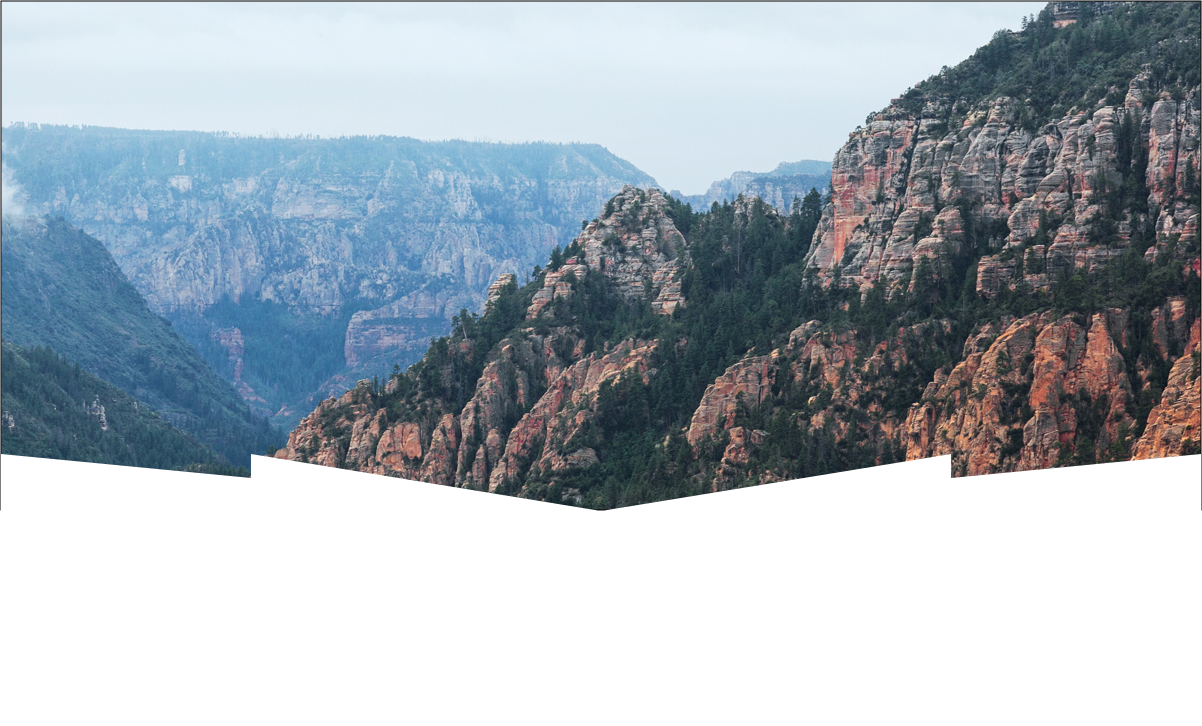
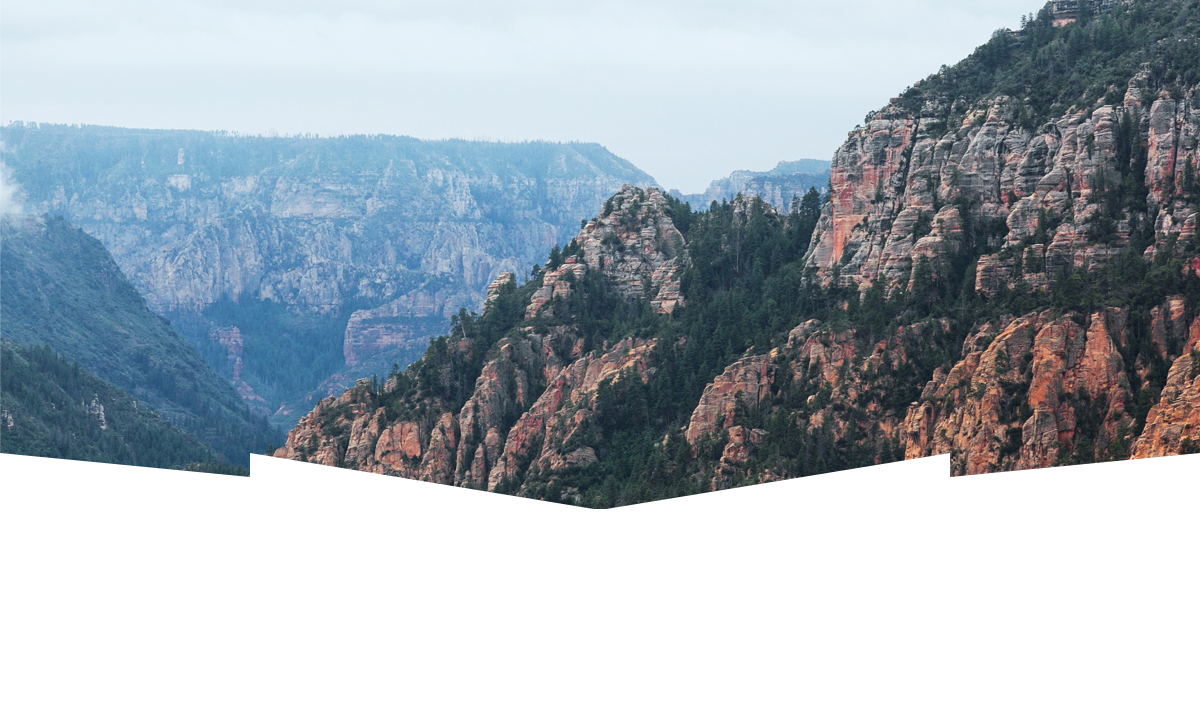
доделывание main

diff --git a/index.html b/index.html
@@ -73,25 +73,21 @@
               <p>Да, по нему можно пройти! Если конечно вы осмелитесь</p>
             </div>
           </li>
-          <li class="reasons__list-item ">
-            <div class="reasons__list-background--grey">
+          <li class="reasons__list-item reasons__list-background--grey">
+            <div class="reasons__list-item--div">
               <h3>Небольшая площадь</h3>
               <span>-№3-</span>
-              <p>все достопримечательности находятся очень близко</p>
+              <p>все достопримечательности<br> находятся очень близко</p>
             </div>
-          </li>
-          <li class="reasons__list-item">
-            <div class="reasons__list-background--grey">
+            <div class="reasons__list-item--div">
               <h3>Красивая дорога</h3>
               <span>-№4-</span>
-              <p>ехать в седону из лас-вегаса совсем не скучно!</p>
+              <p>ехать в седону из лас-вегаса совсем<br> не скучно!</p>
             </div>
-          </li>
-          <li class="reasons__list-item">
-            <div class="reasons__list-background--grey">
+            <div class="reasons__list-item--div">
               <h3>Мало туристов</h3>
               <span>-№5-</span>
-              <p>большинство едет в гранд каньон и толпится там</p>
+              <p>большинство едет в гранд каньон<br> и толпится там</p>
             </div>
           </li>
         </ul>
@@ -103,36 +99,53 @@
           и мы покажем вам лучшие предложения гостиниц в СЕДОНЕ
         </p>
         <button type="button" class="form__button-search">Поиск гостиницы в Седоне</button>
-        <form action="https://echo.htmlacademy.ru/courses" method="post">
+        <form action="https://echo.htmlacademy.ru/courses" method="post" class="form__searching">
           <fieldset class="form__fieldset">
-            <label for="sing_in_id" class="form__text">Дата заезда</label>
+            <div class="input__check">
+            <label for="sing_in_id" class="form__text">Дата заезда</label>          
+            <div class="input__sing-in">
             <input type="text" name="sing_in_date" id="sing_in_id" placeholder="24 Апреля 2017"
               class="form__sing-in-date">
-            <label for="sing_out_id" class="form__text">Дата выезда</label>
+              <button type="button" class="form__calendar"></button>
+            </div>
+          </div>
+            <div class="input__departure">
+            <label for="sing_out_id" class="form__text">Дата выезда</label>          
+            <div class="input__sing-in">
             <input type="text" name="sing_out_date" id="sing_out_id" placeholder="4 Июля 2017"
-              class="form__sing-out-date">
-            <label for="old_people_id" class="form__text">Взрослые</label>
-            <button type="button" class="form__button-less">-</button> <input type="text" name="old_people"
-              id="old_people_id" value="2" class="form__input-adult"> <button type="button"
-              class="form__button-more">+</button>
-            <!--Тут просто кнопки плюс и минус-->
+              class="form__sing-out-date">   
+              <button type="button" class="form__calendar"></button> 
+            </div>
+          </div>  
+          <div class="input__elders-juniors">
+          <div class="input__elders">    
+            <label for="old_people_id" class="form__text">Взрослые</label> 
+            <div class="input__adult">          
+            <input type="button" value="-" class="form__button-less"> <input type="text" name="old_people"
+              id="old_people_id" value="2" class="form__input-adult"> <input type="button" value="+" class="form__button-more">
+            </div>
+          </div>  
+          <div class="input__juniors">
             <label for="children_people_id" class="form__text">Дети</label>
-            <button type="button" class="form__button-less">-</button> <input type="text" name="children_people"
+            <div class="input__children">
+            <input type="button" value="-" class="form__button-less"><input type="text" name="children_people"
               id="children_people_id" value="0" class="form__input-children">
-            <button type="button" class="form__button-more">+</button>
-            <!--Тут просто кнопки плюс и минус-->
+            <input type="button" value="+" class="form__button-more"> 
+            </div> 
+          </div> 
+        </div>         
             <input type="submit" value="Найти" name="button_find" class="form__button-find">
           </fieldset>
         </form>
       </section>
-      <section>
+      <section class="map">
         <iframe
           src="https://www.google.com/maps/embed?pb=!1m18!1m12!1m3!1d104770.38018730543!2d-111.86517855273749!3d34.85435832354931!2m3!1f0!2f0!3f0!3m2!1i1024!2i768!4f13.1!3m3!1m2!1s0x872da132f942b00d%3A0x5548c523fa6c8efd!2z0KHQtdC00L7QvdCwLCDQkNGA0LjQt9C-0L3QsCA4NjMzNiwg0KHQqNCQ!5e0!3m2!1sru!2sru!4v1589732099763!5m2!1sru!2sru"
-          width="640" height="450" frameborder="0" style="border:0;" allowfullscreen="" aria-hidden="false"
+          width="1200" height="450" frameborder="0" style="border:0;" allowfullscreen="" aria-hidden="false"
           tabindex="0"></iframe>
       </section>    
   </main>
-  <footer>    
+  <footer class="footer">    
       <section class="contacts">
         <span>#visitSEDONA</span>
         <div class="contacts__phone-number">

diff --git a/css/style.css b/css/style.css
@@ -43,8 +43,9 @@ body {
 }
 .menu__list{ 
   display: flex;
-  justify-content: space-between;
+  flex-wrap: wrap;
   padding-right: 72px;
+  padding-left: 72px;
   padding-top: 15px;
 }
 .menu__list-item {  
@@ -57,7 +58,13 @@ body {
 }
 
 .menu__list-item:nth-child(1){
-  align-self: start;
+  margin-right: 134px;
+}
+.menu__list-item:nth-child(2){
+  margin-right: 418px;
+}
+.menu__list-item:nth-child(3){
+  margin-right: 147px;
 }
 .menu__list-item a {
   text-decoration: none;
@@ -69,15 +76,16 @@ body {
 
 /*_____MAIN_____*/
 .welcome__sedona {
-  background-image: url(../img/background_photo.png);
+  background-image: url(../img/main_background_new.png);
   background-repeat: no-repeat;
   background-size: cover;
   width: 1200px;
-  min-height: 509px;
-  text-align: center;
+  min-height: 725px;
+  text-align: center;  
+}
+.welcome__sedona-img{
   padding-top: 77px;
 }
-
 .welcome__sedona-info{
   padding-top: 120px;
 }
@@ -194,28 +202,36 @@ body {
 .reasons__list-item:nth-child(2){
 display: flex;
 }
-.reasons__list-item:nth-child(3),
-.reasons__list-item:nth-child(4),
-.reasons__list-item:nth-child(5){
-  display: inline-block;  
-}
+
 .reasons__list-background--grey {
   background-color: var(--basic-grey);
-  text-align: center;
+  display: flex;
+  flex-wrap: wrap;
 }
-
-.reasons__list-item .reasons__list-background--grey h3 {
-  color: var(--basic-black);
+.reasons__list-item--div{
+  display: flex;
+  flex-wrap: wrap;
+  flex-direction: column;
+  flex-grow: 1;
   padding-top: 47px;
+  padding-bottom: 54px;
 }
-
-.reasons__list-item .reasons__list-background--grey span,
-.reasons__list-item .reasons__list-background--grey p {
+.reasons__list-item--div h3{
+  font-weight: bold;
+  font-size: 21px;
+  line-height: 21px;
+  text-align: center;
+  text-transform: uppercase;
+  color: var(--basic-black);
+}
+.reasons__list-item--div span,
+.reasons__list-item--div p{
+  font-size: 14px;
+  line-height: 21px;
+  text-align: center;
+  text-transform: uppercase;
   color: var(--basic-lighter-black);
-  padding-right: 84px;
-  padding-left: 96px;
 }
-
 .form h2 {
   font-weight: bold;
   font-size: 30px;
@@ -239,6 +255,14 @@ display: flex;
   background-color: var(--basic-brown);
   text-align: center;
   color: var(--basic-white);
+  text-transform: uppercase;
+  padding-top: 30px;
+  padding-right: 124px;
+  padding-bottom: 30px;
+  padding-left: 125px;
+  margin-left: 316px;
+  margin-right: 316px;
+  border: none;
 }
 
 .form__button-search:hover {
@@ -251,9 +275,79 @@ display: flex;
   color: var(--basic-white);
   opacity: 0.3;
 }
-
+.form__searching{
+  width: 586px;
+  padding: 50px;
+  margin-left: 300px;
+  margin-right: 300px;
+}
 .form__fieldset {
   border: none;
+}
+.input__check,
+.input__departure
+{
+  display: flex;  
+  padding-bottom: 30px;
+}
+.input__elders-juniors{
+display: flex;
+}
+.input__elders,
+.input__juniors{
+  display: flex;
+  padding-bottom: 54px;
+}
+.input__elders{
+  margin-right: 90px;
+}
+.input__elders .form__text,
+.input__juniors .form__text,
+.input__check .form__text,
+.input__departure .form__text{
+padding-right: 11px;
+
+}
+.form__calendar{
+  padding-top: 5px;
+  width: 25px;
+  height: 27px;
+  background-image: url(../img/rest_calendar.svg);
+  background-repeat: no-repeat;
+  background-size: cover;
+  border: none;
+}
+.input__sing-in{
+  width: 346px;
+  min-height: 38px;
+  background-color: var(--basic-darker-white);
+}
+.form__sing-in-date,
+.form__sing-out-date{
+  width: 300px;
+}
+.input__adult,
+.input__children{
+  width: 114px;
+  min-height: 20px;
+  background-color: var(--basic-darker-white);
+}
+
+.form__input-adult,
+.form__input-children{
+  width: 38px;
+}
+.form__button-less,
+.form__button-more{
+  width: 30px; 
+}
+.form__button-less,
+.form__input-adult,
+.form__button-more,
+.form__input-children,
+.form__sing-in-date,
+.form__sing-out-date{
+  border: none; 
 }
 
 .form__sing-in-date,
@@ -280,6 +374,8 @@ display: flex;
   text-transform: uppercase;
   background-color: var(--basic-blue);
   color: var(--basic-white);
+  padding: 16px 182px 16px 181px;
+  border: none;
 }
 
 .form__button-find:hover {
@@ -354,6 +450,7 @@ display: flex;
   line-height: 26px;
   text-align: center;
   text-transform: uppercase;
+  padding-right: 10px;
 }
 
 
@@ -370,7 +467,28 @@ display: flex;
 .develop__htmlacademy-link:active {
   background-image: url(../img/pressing-logo-htmlacademy.svg);
 }
-
+.footer{
+  display: flex;
+  flex-wrap: wrap;
+  justify-content: space-around;
+  padding-top: 23px;
+}
+.social__list-item:first-child,
+.social__list-item:nth-child(2){
+  margin-right: 6px;
+}
+.social__list,
+.develop{
+  display: flex;
+  flex-wrap: wrap;
+  align-items: center;
+}
+.contacts{
+  display: flex;
+  flex-direction: column;
+  flex-wrap: wrap;
+  align-items: center;
+}
 /*_____HOTELS_____*/
 .selection {
   background-image: url(../img/background_hotels.png);
